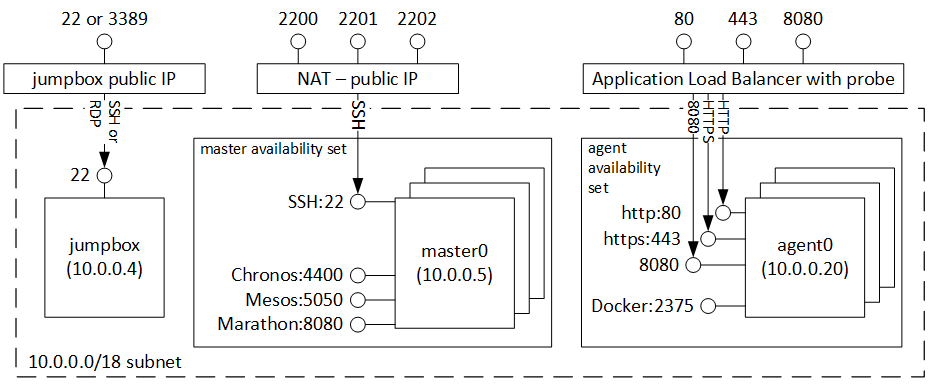
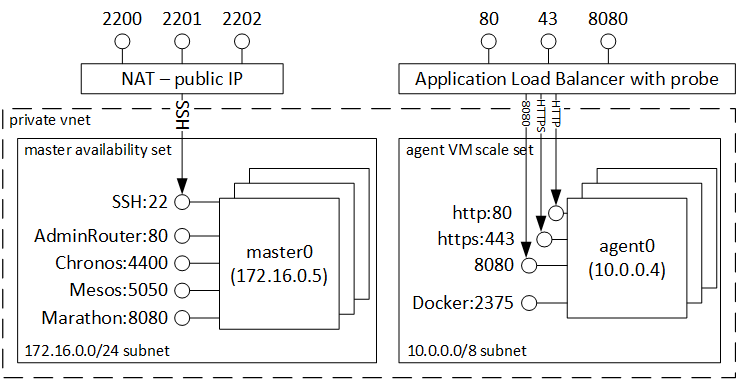
update walkthrough to include windows cluster

Changed region(s): [[0.0, 0.029, 0.9986, 1.0]]

diff --git a/mesos-marathon-vmss/README.md b/mesos-marathon-vmss/README.md
@@ -8,6 +8,7 @@ Portal Launch Button|Cluster Type|Walkthrough Instructions
 <a href="https://portal.azure.com/#create/Microsoft.Template/uri/https%3A%2F%2Fraw.githubusercontent.com%2Fanhowe%2Fscratch%2Fmaster%2Fmesos-marathon-vmss%2Fmesos-cluster-with-windows-jumpbox.json" target="_blank"><img src="http://azuredeploy.net/deploybutton.png"/></a>|Mesos with windows jumpbox|[Mesos Cluster Walkthrough](#mesos-cluster-walkthrough)
 <a href="https://portal.azure.com/#create/Microsoft.Template/uri/https%3A%2F%2Fraw.githubusercontent.com%2Fanhowe%2Fscratch%2Fmaster%2Fmesos-marathon-vmss%2Fmesos-cluster-with-linux-jumpbox.json" target="_blank"><img src="http://azuredeploy.net/deploybutton.png"/></a>|Mesos with linux jumpbox|[Mesos Cluster Walkthrough](#mesos-cluster-walkthrough)
 <a href="https://portal.azure.com/#create/Microsoft.Template/uri/https%3A%2F%2Fraw.githubusercontent.com%2Fanhowe%2Fscratch%2Fmaster%2Fmesos-marathon-vmss%2Fswarm-cluster-with-no-jumpbox.json" target="_blank"><img src="http://azuredeploy.net/deploybutton.png"/></a>|Swarm Cluster|[Swarm Cluster Walkthrough](#swarm-cluster-walkthrough)
+<a href="https://portal.azure.com/#create/Microsoft.Template/uri/https%3A%2F%2Fraw.githubusercontent.com%2Fanhowe%2Fscratch%2Fmaster%2Fmesos-marathon-vmss%2Fswarm-cluster-with-windows.json" target="_blank"><img src="http://azuredeploy.net/deploybutton.png"/></a>|Swarm Windows Cluster|[Swarm Windows Cluster Walkthrough](#swarm-windows-cluster-walkthrough)
 
 # Mesos Cluster Walkthrough
 
@@ -174,6 +175,27 @@ web:
  ![Image of the web page](https://raw.githubusercontent.com/anhowe/scratch/master/mesos-marathon/images/swarmbrowser.png)
  7. You can now scale the web application by typing `docker-compose scale web=3`, and this will scale to the rest of your agents.  The Azure load balancer will automatically pick up the new containers.
  ![Image of docker scaling](https://raw.githubusercontent.com/anhowe/scratch/master/mesos-marathon/images/dockercomposescale.png)
+
+ # Swarm Windows Cluster Walkthrough
+
+ Once your Swarm Windows cluster has been created you will have a resource group containing 2 parts:
+
+ 1. a set of 1,3,5 masters in a master specific availability set.  Each master's SSH can be accessed via the public dns address at ports 2200..2204
+
+ 2. a set of agents behind in an agent specific availability set.  Each Windows Agent can be access via RDP through ports 3389 for agent0, 3390 for agent1, 3391 for agent2 and so on.
+
+  The following image is an example of a cluster with 3 masters, and 3 agents:
+
+ ![Image of Swarm Windows cluster on azure](https://raw.githubusercontent.com/anhowe/scratch/master/mesos-marathon/images/swarmwindows.png)
+
+ All VMs are on the same private vnet and masters on subnet 172.16.0.0/24, and agents on subnet 10.0.0.0/8, and fully accessible to each other.
+
+ ## Explore Swarm with Simple hello world
+ 1. After successfully deploying the template write down the two output master and agent FQDNs.
+ 2. SSH to port 2200 of the master FQDN
+ 3. Type `docker -H :2375 info` to see the status of the agent nodes.
+ ![Image of docker info](https://raw.githubusercontent.com/anhowe/scratch/master/mesos-marathon/images/dockerinfowindows.png)
+ 4. Type `docker -H :2375 run --rm -i windowsservercore powershell -command "Write-Output 'hello world'"` to see the hello-world test app run on one of the agents
 
 # Sample Workloads
 
